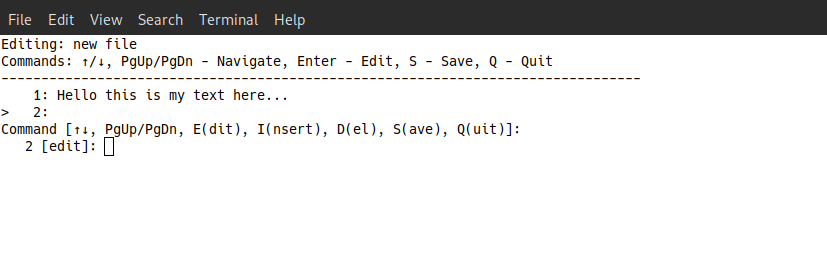
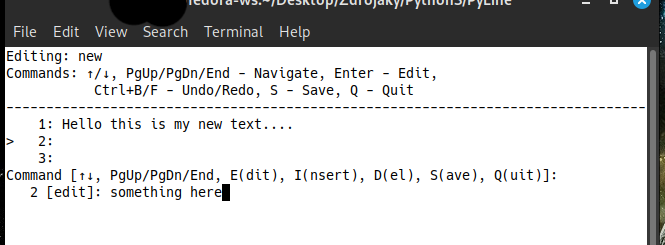
feat: implement undo/redo system using Command Pattern
- Implemented undo/redo with Command Pattern and state history
- Limited history to 120 operations for memory efficiency
- Updated README.md with usage instructions
- Updated screenshot to reflect current editor UI

Changed region(s): [[0.0, 0.0, 1.0, 1.0]]

diff --git a/textbuffer.py b/textbuffer.py
@@ -4,7 +4,59 @@ import sys
 import tty
 import termios
 import fcntl
+import time
 
+class EditCommand:
+    #Base class for all editable commands.
+    def execute(self, buffer):
+        raise NotImplementedError
+    
+    def undo(self, buffer):
+        raise NotImplementedError
+
+class LineEditCommand(EditCommand):
+    #Tracks changes to a single line.
+    def __init__(self, line_num, old_text, new_text):
+        self.line_num = line_num
+        self.old_text = old_text
+        self.new_text = new_text
+    
+    def execute(self, buffer):
+        if self.line_num < len(buffer.lines):
+            buffer.lines[self.line_num] = self.new_text
+    
+    def undo(self, buffer):
+        if self.line_num < len(buffer.lines):
+            buffer.lines[self.line_num] = self.old_text
+
+class InsertLineCommand(EditCommand):
+    #Tracks line insertion.
+    def __init__(self, line_num, text):
+        self.line_num = line_num
+        self.text = text
+    
+    def execute(self, buffer):
+        buffer.lines.insert(self.line_num, self.text)
+    
+    def undo(self, buffer):
+        if self.line_num < len(buffer.lines):
+            del buffer.lines[self.line_num]
+
+class DeleteLineCommand(EditCommand):
+    #Tracks line deletion.
+    def __init__(self, line_num, text):
+        self.line_num = line_num
+        self.text = text
+    
+    def execute(self, buffer):
+        if self.line_num < len(buffer.lines):
+            del buffer.lines[self.line_num]
+    
+    def undo(self, buffer):
+        buffer.lines.insert(self.line_num, self.text)
+
+
+        
 class TextBuffer:
     def __init__(self):
         self.lines = []
@@ -15,7 +67,66 @@ class TextBuffer:
         self.display_start = 0
         self.display_lines = 40
         self.edit_history = {}
+        self.undo_stack = []  # Stack for undo commands
+        self.redo_stack = []  # Stack for redo commands
 
+    def push_undo_command(self, command):
+        #Push a command to the undo stack and clear redo stack.
+        self.undo_stack.append(command)
+        if len(self.undo_stack) > 120:  # Limit history
+            self.undo_stack.pop(0)
+        self.redo_stack.clear()
+
+    def undo(self):
+        """Undo the last action with user-friendly feedback."""
+        if not self.undo_stack:
+            self._show_status_message("Nothing to undo")
+            return
+    
+        command_type = type(self.undo_stack[-1]).__name__
+        action_map = {
+            'LineEditCommand': 'edit',
+            'InsertLineCommand': 'insertion',
+            'DeleteLineCommand': 'deletion'
+        }
+        action = action_map.get(command_type, 'change')
+        
+        self._show_status_message(f"Undoing last {action}")
+        command = self.undo_stack.pop()
+        command.undo(self)
+        self.redo_stack.append(command)
+        self.dirty = True
+
+    def redo(self):
+        """Redo the last undone action with user-friendly feedback."""
+        if not self.redo_stack:
+            self._show_status_message("Nothing to redo")
+            return
+        
+        command_type = type(self.redo_stack[-1]).__name__
+        action_map = {
+            'LineEditCommand': 'edit',
+            'InsertLineCommand': 'insertion',
+            'DeleteLineCommand': 'deletion'
+        }
+        action = action_map.get(command_type, 'change')
+        
+        self._show_status_message(f"Redoing last {action}")
+        command = self.redo_stack.pop()
+        command.execute(self)
+        self.undo_stack.append(command)
+        self.dirty = True
+        
+    def _show_status_message(self, message):
+        """Helper method to display status messages consistently."""
+        print(f"\n{message}", end='')
+        time.sleep(0.355)  # Brief pause so user can read the message
+        sys.stdout.flush()
+        # Move cursor back up to overwrite the status message
+        sys.stdout.write("\033[F")  # Move up one line
+        sys.stdout.write("\033[K")  # Clear the line
+        
+        
     def load_file(self, filename):
         # Load file contents into buffer
         try:
@@ -45,7 +156,8 @@ class TextBuffer:
     def display(self):
         os.system('clear')
         print(f"Editing: {self.filename or 'New file'}")
-        print("Commands: ↑/↓, PgUp/PgDn/End - Navigate, Enter - Edit, S - Save, Q - Quit")
+        print("Commands: ↑/↓, PgUp/PgDn/End - Navigate, Enter - Edit,\n"
+              "\t   Ctrl+B/F - Undo/Redo, S - Save, Q - Quit")
         print("-" * 80)
         
         # Clamp display range to valid lines
@@ -79,41 +191,50 @@ class TextBuffer:
         # Ensure current_line is within bounds
         if self.current_line >= len(self.lines):
             self.current_line = len(self.lines) - 1
-        
-        # Store original line in history if not already there
-        if self.current_line not in self.edit_history:
-            self.edit_history[self.current_line] = self.lines[self.current_line]
-            
+                
+        # Store original line for undo
+        old_text = self.lines[self.current_line]
+                
         # Set up readline with existing line content
-        readline.set_startup_hook(lambda: readline.insert_text(self.lines[self.current_line]))        
+        readline.set_startup_hook(lambda: readline.insert_text(old_text))        
         try:
             # Show prompt with line number and previous text
             prompt = f"{self.current_line+1:4d} [edit]: "
-            new_line = input(prompt).rstrip('\n')               
-            if new_line != self.lines[self.current_line]:
-                self.lines[self.current_line] = new_line
+            new_text = input(prompt).rstrip('\n')
+            
+            if new_text != old_text:
+                # Create and execute an undoable command (using class-based approach)
+                cmd = LineEditCommand(self.current_line, old_text, new_text)
+                self.push_undo_command(cmd)
+                cmd.execute(self)
                 self.dirty = True
         finally:
             # Clean up readline hook
             readline.set_startup_hook(None)
 
     def insert_line(self):
-        # Insert a new line after current position
-        self.lines.insert(self.current_line + 1, "")
+        # Create and execute an undoable command (using class-based approach)
+        cmd = InsertLineCommand(self.current_line + 1, "")
+        self.push_undo_command(cmd)
+        cmd.execute(self)
+        
+        # Original logic
         self.current_line += 1
-        # Ensure we don't go out of bounds
         if self.current_line >= len(self.lines):
             self.current_line = len(self.lines) - 1
         self.dirty = True
-
+            
     def delete_line(self):
-        # Delete current line
         if self.lines:
-            del self.lines[self.current_line]
+            # Create and execute an undoable command (using class-based approach)
+            cmd = DeleteLineCommand(self.current_line, self.lines[self.current_line])
+            self.push_undo_command(cmd)
+            cmd.execute(self)
+        
+            # Original logic
             if self.current_line >= len(self.lines) and self.current_line > 0:
                 self.current_line -= 1
             self.dirty = True
-
             
     def get_key_input(self):
         # Read a single key press, including arrow keys
@@ -122,6 +243,13 @@ class TextBuffer:
         try:
             tty.setraw(sys.stdin.fileno())
             ch = sys.stdin.read(1)
+
+            # First check for undo/redo shortcuts (Ctrl+B and Ctrl+F)
+            if ch == '\x02':  # Ctrl+B for undo
+                return 'undo'
+            elif ch == '\x06':  # Ctrl+F for redo
+                return 'redo'
+            
             if ch == '\x1b':  # Possible arrow key or other special key
                 # Set non-blocking mode temporarily
                 fl = fcntl.fcntl(fd, fcntl.F_GETFL)
@@ -148,7 +276,9 @@ class TextBuffer:
                 finally:
                     fcntl.fcntl(fd, fcntl.F_SETFL, fl)
                 return ch  # Return just ESC if not special key
+
             return ch.lower() if ch else ''  # Return regular key as lowercase or empty string if no input
+
         finally:
             termios.tcsetattr(fd, termios.TCSADRAIN, old_settings)
 
@@ -162,6 +292,13 @@ class TextBuffer:
                 
                 cmd = self.get_key_input()
                 if not cmd:  # Skip if no command received
+                    continue
+
+                if cmd == 'undo':   # Ctrl+B for undo
+                    self.undo()
+                    continue
+                elif cmd == 'redo':   # Ctrl+F for redo
+                    self.redo()
                     continue
                 
                 # Handle arrow keys

diff --git a/README.md b/README.md
@@ -19,6 +19,7 @@ PyLine is a minimalist command-line text editor designed for Linux/BSD systems, 
   - Line-by-line editing with syntax
   - Preserves existing text when modifying lines
   - Insert/delete line operations
+  - Undo/Redo changes (currently limit set to 120)
 - **File Browser**:
   - List directory contents
   - Change working directories
@@ -58,6 +59,7 @@ chmod +x editor.py
 |---|---|
 |`↑`/`↓`|Navigate between lines / Scroll by lines|
 | `PgUp` / `PgDn` | Scroll by 40 lines buffer|
+|`Ctrl+B` / `Ctrl+F` | Undo/Redo 
 |`Enter`/`e`|Edit current line|
 |`i`|Insert new line|
 |`d`|Delete current line|
